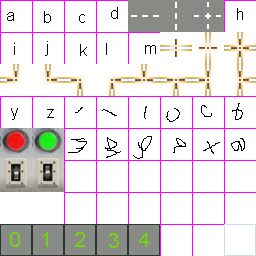
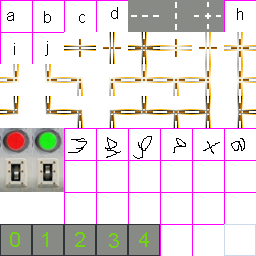
city level - switch power line textures based on energized state

Changed region(s): [[0.0, 0.375, 1.0, 0.5], [0.25, 0.125, 0.625, 0.25]]

diff --git a/core/src/levels/CityLevel.java b/core/src/levels/CityLevel.java
@@ -81,9 +81,11 @@ public class CityLevel extends GameLevel {
                 .repeatYoyo(Tween.INFINITY, 0)
                 .start(LudumDare31.tweens);
 
-        glowAlpha = new MutableFloat(0.025f);
+        final float min_glow = 0.05f;
+        final float max_glow = 0.2f;
+        glowAlpha = new MutableFloat(min_glow);
         Tween.to(glowAlpha, 0, 1.33f)
-                .target(0.125f)
+                .target(max_glow)
                 .ease(Quad.INOUT)
                 .repeatYoyo(Tween.INFINITY, 0)
                 .start(LudumDare31.tweens);
@@ -153,14 +155,27 @@ public class CityLevel extends GameLevel {
     @Override
     public void draw(SpriteBatch batch) {
         batch.setProjectionMatrix(camera.combined);
+
+        // Draw city background
         batch.setColor(0.7f, 0.7f, 0.7f, 1.0f);
         batch.draw(CityAssets.city_background, 0, margin_bottom);
 
+        // Draw power lines
         batch.setColor(Color.WHITE);
         for (int y = 0; y < tiles_high; ++y) {
             for (int x = 0; x < tiles_wide; ++x) {
-                batch.draw(textures.get(powerGrid[y][x].powerGridType),
-                        x * tile_size, y * tile_size + margin_bottom, tile_size, tile_size);
+                // Which texture to use? on or off (or empty)
+                CityTileTypes type = powerGrid[y][x].powerGridType;
+                TextureRegion texture = textures.get(CityTileTypes.empty);
+                if (type != CityTileTypes.empty) {
+                    PowerTexture powerTexture = CityAssets.powerTextures.get(powerGrid[y][x].powerGridType);
+                    texture = (powerGrid[y][x].energized ? powerTexture.on : powerTexture.off);
+                }
+
+                // Draw power line texture
+                batch.draw(texture, x * tile_size, y * tile_size + margin_bottom, tile_size, tile_size);
+
+                // Draw 'glow' overlay
                 if (powerGrid[y][x].energized) {
                     batch.setColor(1, 1, 0, glowAlpha.floatValue());
                     batch.draw(Assets.squareTex,
@@ -170,6 +185,7 @@ public class CityLevel extends GameLevel {
             }
         }
 
+        // Draw lightning
         if (!lightningBoltDone) {
 //            Gdx.app.log("BOOM", "lighting strike");
             // TODO (brian): make noise
@@ -179,6 +195,7 @@ public class CityLevel extends GameLevel {
                     0, margin_bottom, camera.viewportWidth, camera.viewportHeight);
         }
 
+        // Draw cloud layer
         batch.setColor(1.0f, 1.0f, 1.0f, cloudAlpha.floatValue());
         batch.draw(CityAssets.clouds, 0, margin_bottom, camera.viewportWidth, camera.viewportHeight - margin_bottom);
 
@@ -186,13 +203,14 @@ public class CityLevel extends GameLevel {
         batch.setColor(Color.WHITE);
         powerBar.draw(batch, cursorPulse.floatValue());
 
-        // Draw the currently active power grid type
+        // Draw an underneath layer for the currently active power grid type
         final float pulse_offset = 1.6f;
         batch.setColor(Color.DARK_GRAY);
         batch.draw(Assets.squareTex,
                 tilePos.x * tile_size - pulse_offset, tilePos.y * tile_size + margin_bottom - pulse_offset,
                 tile_size * cursorPulse.floatValue(), tile_size * cursorPulse.floatValue());
 
+        // Draw the currently active power grid type
         batch.setColor(Color.WHITE);
         batch.draw(textures.get(powerBar.currentPowerLineType),
                 tilePos.x * tile_size - pulse_offset, tilePos.y * tile_size + margin_bottom - pulse_offset,
@@ -419,19 +437,19 @@ public class CityLevel extends GameLevel {
         textures.put(CityTileTypes.power_station,        CityAssets.power_station);
         textures.put(CityTileTypes.power_pole,           CityAssets.power_pole);
 
-        textures.put(CityTileTypes.power_line_h,         CityAssets.power_line_h);
-        textures.put(CityTileTypes.power_line_v,         CityAssets.power_line_v);
-        textures.put(CityTileTypes.power_line_x,         CityAssets.power_line_x);
+        textures.put(CityTileTypes.power_line_h,         CityAssets.power_line_h_off);
+        textures.put(CityTileTypes.power_line_v,         CityAssets.power_line_v_off);
+        textures.put(CityTileTypes.power_line_x,         CityAssets.power_line_x_off);
 
-        textures.put(CityTileTypes.power_line_corner_lt, CityAssets.power_line_corner_lt);
-        textures.put(CityTileTypes.power_line_corner_rt, CityAssets.power_line_corner_rt);
-        textures.put(CityTileTypes.power_line_corner_lb, CityAssets.power_line_corner_lb);
-        textures.put(CityTileTypes.power_line_corner_rb, CityAssets.power_line_corner_rb);
+        textures.put(CityTileTypes.power_line_corner_lt, CityAssets.power_line_corner_lt_off);
+        textures.put(CityTileTypes.power_line_corner_rt, CityAssets.power_line_corner_rt_off);
+        textures.put(CityTileTypes.power_line_corner_lb, CityAssets.power_line_corner_lb_off);
+        textures.put(CityTileTypes.power_line_corner_rb, CityAssets.power_line_corner_rb_off);
 
-        textures.put(CityTileTypes.power_line_up_t,      CityAssets.power_line_up_t);
-        textures.put(CityTileTypes.power_line_down_t,    CityAssets.power_line_down_t);
-        textures.put(CityTileTypes.power_line_left_t,    CityAssets.power_line_left_t);
-        textures.put(CityTileTypes.power_line_right_t,   CityAssets.power_line_right_t);
+        textures.put(CityTileTypes.power_line_up_t,      CityAssets.power_line_up_t_off);
+        textures.put(CityTileTypes.power_line_down_t,    CityAssets.power_line_down_t_off);
+        textures.put(CityTileTypes.power_line_left_t,    CityAssets.power_line_left_t_off);
+        textures.put(CityTileTypes.power_line_right_t,   CityAssets.power_line_right_t_off);
 
         textures.put(CityTileTypes.empty,   CityAssets.empty);
     }

diff --git a/core/src/levels/citylevel/CityAssets.java b/core/src/levels/citylevel/CityAssets.java
@@ -5,10 +5,15 @@ import com.badlogic.gdx.graphics.g2d.Animation;
 import com.badlogic.gdx.graphics.g2d.TextureAtlas;
 import com.badlogic.gdx.graphics.g2d.TextureRegion;
 
+import java.util.HashMap;
+import java.util.Map;
+
 /**
  * Brian Ploeckelman created on 12/6/2014.
  */
 public class CityAssets {
+
+    public static Map<CityTileTypes, PowerTexture> powerTextures;
 
     public static TextureAtlas lightning_bolt;
     public static Animation lightningBoltAnim;
@@ -34,17 +39,29 @@ public class CityAssets {
     public static TextureRegion power_station;
     public static TextureRegion power_pole;
 
-    public static TextureRegion power_line_h;
-    public static TextureRegion power_line_v;
-    public static TextureRegion power_line_x;
-    public static TextureRegion power_line_corner_lt;
-    public static TextureRegion power_line_corner_rt;
-    public static TextureRegion power_line_corner_lb;
-    public static TextureRegion power_line_corner_rb;
-    public static TextureRegion power_line_up_t;
-    public static TextureRegion power_line_down_t;
-    public static TextureRegion power_line_left_t;
-    public static TextureRegion power_line_right_t;
+    public static TextureRegion power_line_h_on;
+    public static TextureRegion power_line_v_on;
+    public static TextureRegion power_line_x_on;
+    public static TextureRegion power_line_corner_lt_on;
+    public static TextureRegion power_line_corner_rt_on;
+    public static TextureRegion power_line_corner_lb_on;
+    public static TextureRegion power_line_corner_rb_on;
+    public static TextureRegion power_line_up_t_on;
+    public static TextureRegion power_line_down_t_on;
+    public static TextureRegion power_line_left_t_on;
+    public static TextureRegion power_line_right_t_on;
+
+    public static TextureRegion power_line_h_off;
+    public static TextureRegion power_line_v_off;
+    public static TextureRegion power_line_x_off;
+    public static TextureRegion power_line_corner_lt_off;
+    public static TextureRegion power_line_corner_rt_off;
+    public static TextureRegion power_line_corner_lb_off;
+    public static TextureRegion power_line_corner_rb_off;
+    public static TextureRegion power_line_up_t_off;
+    public static TextureRegion power_line_down_t_off;
+    public static TextureRegion power_line_left_t_off;
+    public static TextureRegion power_line_right_t_off;
 
     public static TextureRegion connections0;
     public static TextureRegion connections1;
@@ -89,19 +106,44 @@ public class CityAssets {
 
         power_station        = regions[1][3];
         power_pole           = regions[1][4];
-        power_line_h         = regions[1][5];
-        power_line_v         = regions[1][6];
-        power_line_x         = regions[1][7];
 
-        power_line_corner_lt = regions[2][0];
-        power_line_corner_rt = regions[2][1];
-        power_line_corner_lb = regions[2][2];
-        power_line_corner_rb = regions[2][3];
+        power_line_h_on         = regions[1][5];
+        power_line_v_on         = regions[1][6];
+        power_line_x_on         = regions[1][7];
+        power_line_corner_lt_on = regions[2][0];
+        power_line_corner_rt_on = regions[2][1];
+        power_line_corner_lb_on = regions[2][2];
+        power_line_corner_rb_on = regions[2][3];
+        power_line_up_t_on      = regions[2][4];
+        power_line_down_t_on    = regions[2][5];
+        power_line_left_t_on    = regions[2][6];
+        power_line_right_t_on   = regions[2][7];
 
-        power_line_up_t      = regions[2][4];
-        power_line_down_t    = regions[2][5];
-        power_line_left_t    = regions[2][6];
-        power_line_right_t   = regions[2][7];
+        power_line_h_off         = regions[1][2];
+        power_line_v_off         = regions[1][3];
+        power_line_x_off         = regions[1][4];
+
+        power_line_corner_lt_off = regions[3][0];
+        power_line_corner_rt_off = regions[3][1];
+        power_line_corner_lb_off = regions[3][2];
+        power_line_corner_rb_off = regions[3][3];
+        power_line_up_t_off      = regions[3][4];
+        power_line_down_t_off    = regions[3][5];
+        power_line_left_t_off    = regions[3][6];
+        power_line_right_t_off   = regions[3][7];
+
+        powerTextures = new HashMap<CityTileTypes, PowerTexture>();
+        powerTextures.put(CityTileTypes.power_line_h, new PowerTexture(power_line_h_on, power_line_h_off));
+        powerTextures.put(CityTileTypes.power_line_v, new PowerTexture(power_line_v_on, power_line_v_off));
+        powerTextures.put(CityTileTypes.power_line_x, new PowerTexture(power_line_x_on, power_line_x_off));
+        powerTextures.put(CityTileTypes.power_line_corner_lt, new PowerTexture(power_line_corner_lt_on, power_line_corner_lt_off));
+        powerTextures.put(CityTileTypes.power_line_corner_rt, new PowerTexture(power_line_corner_rt_on, power_line_corner_rt_off));
+        powerTextures.put(CityTileTypes.power_line_corner_lb, new PowerTexture(power_line_corner_lb_on, power_line_corner_lb_off));
+        powerTextures.put(CityTileTypes.power_line_corner_rb, new PowerTexture(power_line_corner_rb_on, power_line_corner_rb_off));
+        powerTextures.put(CityTileTypes.power_line_up_t, new PowerTexture(power_line_up_t_on, power_line_up_t_off));
+        powerTextures.put(CityTileTypes.power_line_down_t, new PowerTexture(power_line_down_t_on, power_line_down_t_off));
+        powerTextures.put(CityTileTypes.power_line_left_t, new PowerTexture(power_line_left_t_on, power_line_left_t_off));
+        powerTextures.put(CityTileTypes.power_line_right_t, new PowerTexture(power_line_right_t_on, power_line_right_t_off));
 
         connections0 = regions[7][0];
         connections1 = regions[7][1];

diff --git a/core/src/levels/citylevel/PowerTexture.java b/core/src/levels/citylevel/PowerTexture.java
@@ -1,0 +1,18 @@
+package levels.citylevel;
+
+import com.badlogic.gdx.graphics.g2d.TextureRegion;
+
+/**
+ * Brian Ploeckelman created on 12/8/2014.
+ */
+public class PowerTexture {
+
+    public TextureRegion on;
+    public TextureRegion off;
+
+    public PowerTexture(TextureRegion on, TextureRegion off) {
+        this.on = on;
+        this.off = off;
+    }
+
+}
